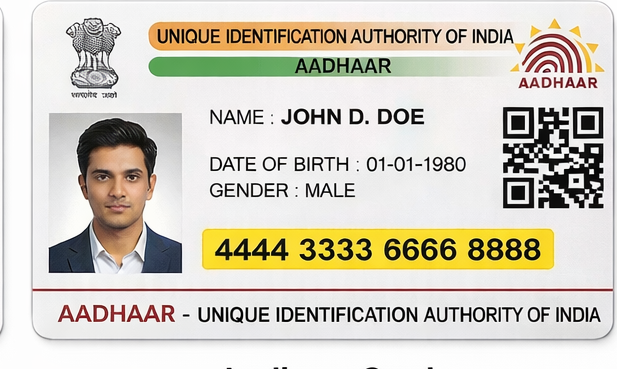
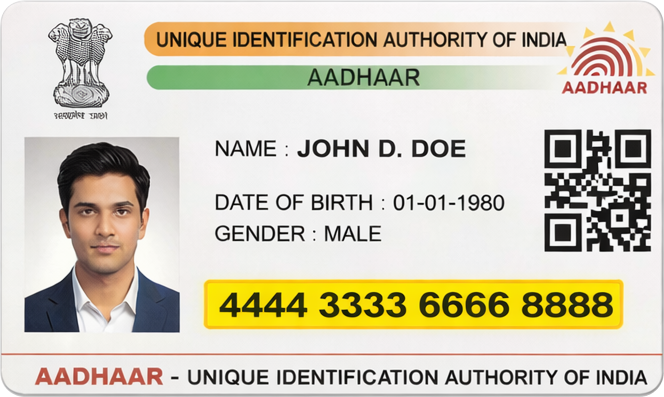
fix(verify): replace all 4 dummy ID images with edge-to-edge pre-highlighted versions
PM provided individually pre-cropped, edge-to-edge ID images (already highlighted by user).

Replacements:
- dummy-aadhaar.png: JOHN D. DOE with 4444 3333 6666 8888 highlighted in yellow
- dummy-pan.png: APPLICANT NAME with ABCDE1234F highlighted
- dummy-gst.png: Form GST REG-06 with 27AAAAA1111A1AA highlighted
- dummy-voter.png: Sample Kumar with ABC1234567 highlighted (was .jpg, now .png)

Config updated: voter img path .jpg → .png

diff --git a/screens/rapido-aadhaar-upload.html b/screens/rapido-aadhaar-upload.html
@@ -280,7 +280,7 @@ const ID_CONFIG = {
   },
   voter: {
     name: 'Voter ID',
-    img: '../assets/dummy-voter.jpg',
+    img: '../assets/dummy-voter.png',
     hl: { l: 4, t: 24, w: 22, h: 9 },
     tag: 'Manual Review · 1–2 Days',
     tagVariant: 'amber',
